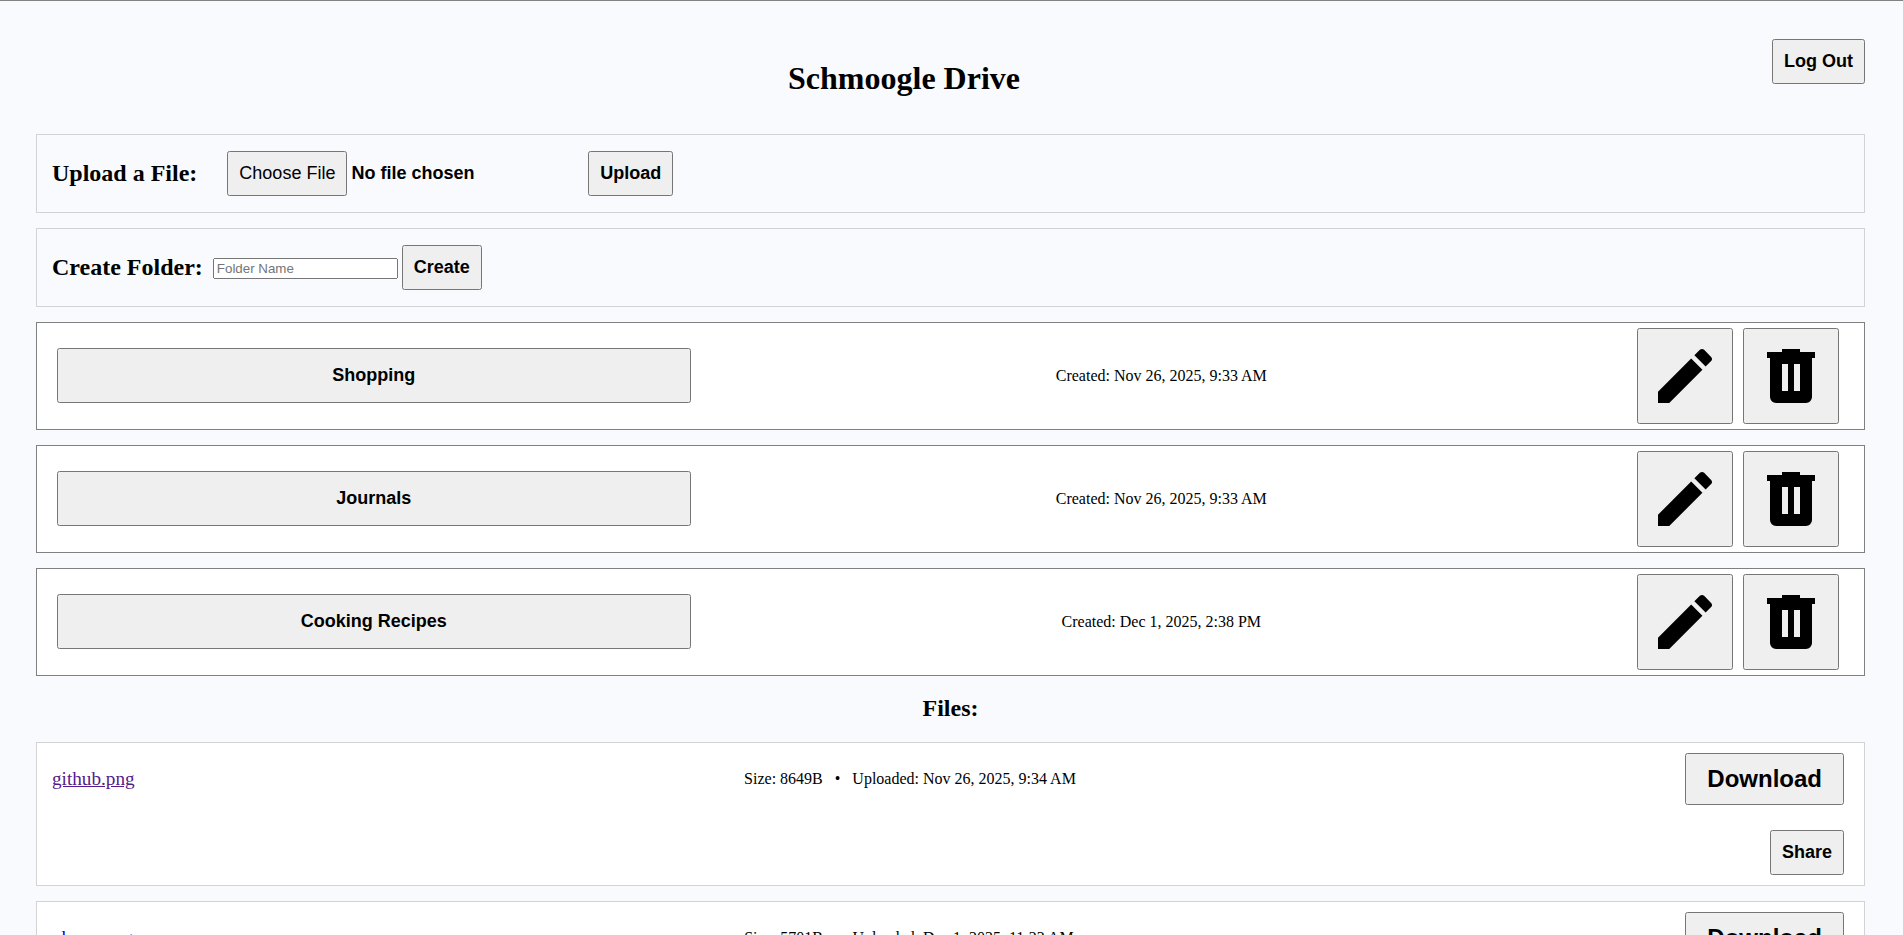
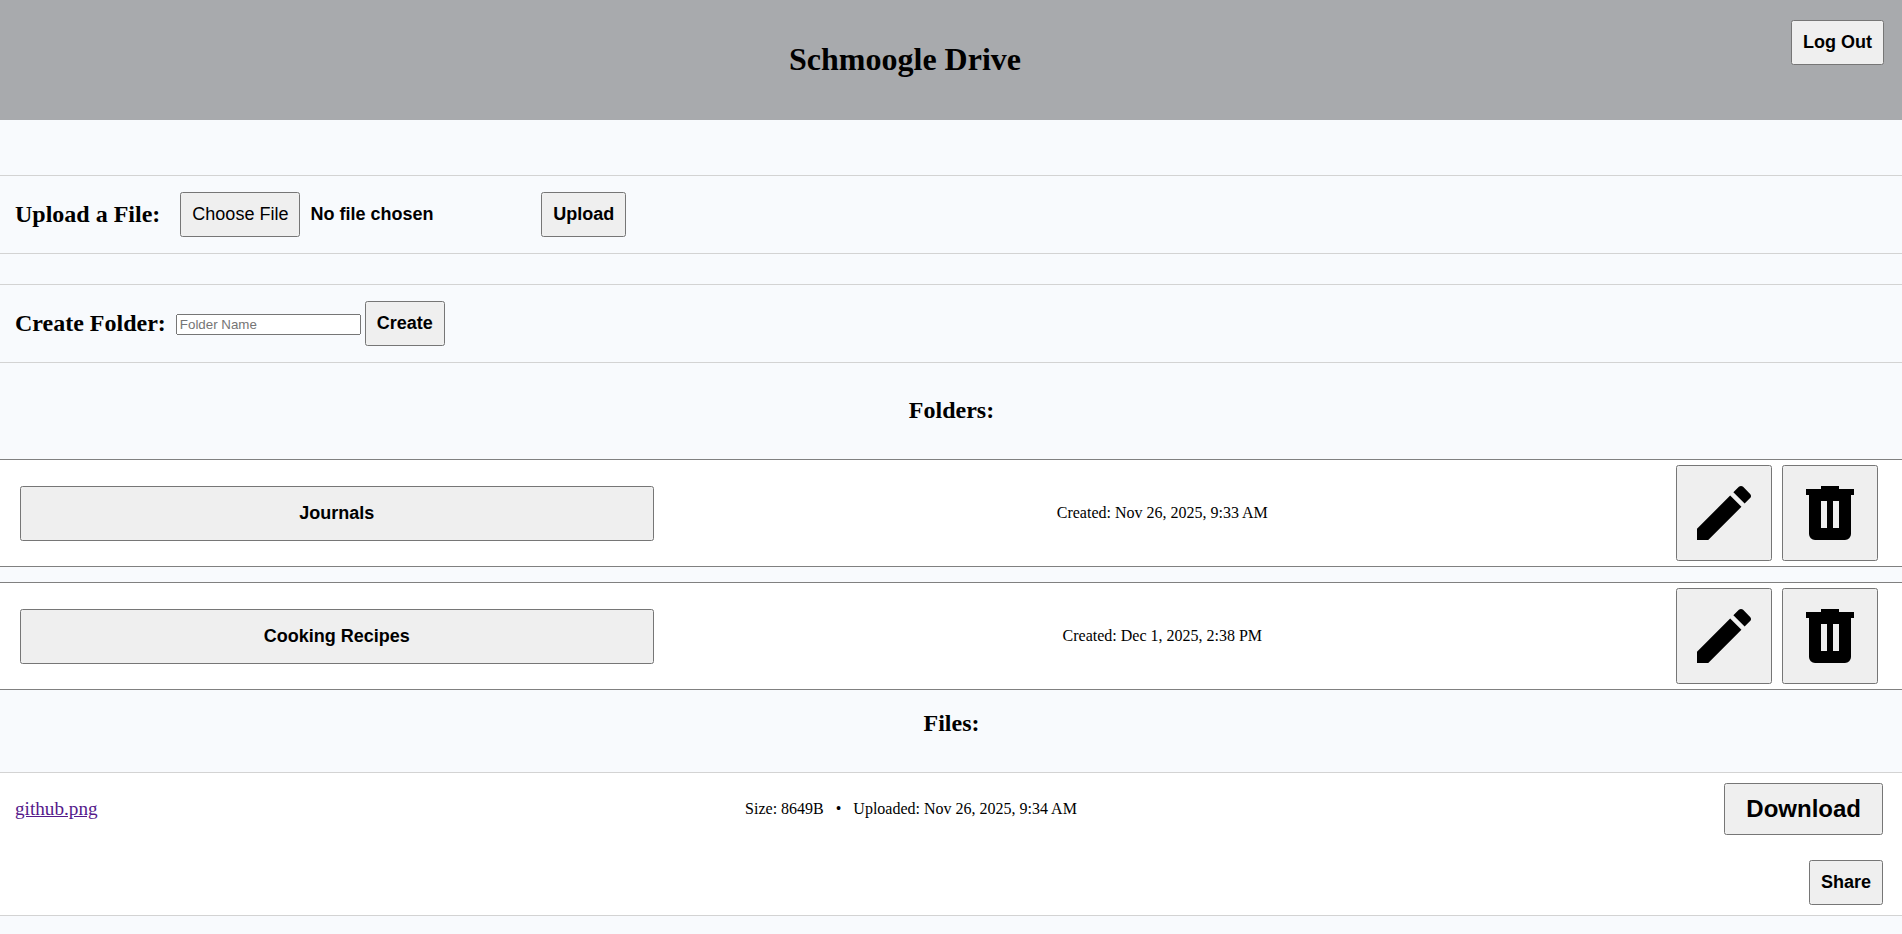
minor UI fixes

diff --git a/public/stylesheets/style.css b/public/stylesheets/style.css
@@ -1,9 +1,16 @@
+html {
+  min-height: 100%;
+}
+
 body {
+  display: flex;
+  flex-direction: column;
   font: 16px "Times New Roman", Times, serif;
   background-color: rgb(248, 250, 253);
   text-align: center;
   margin: 0;
-  padding: 35px;
+  min-height: 90vh;
+  height: auto;
 }
 
 button,
@@ -16,6 +23,16 @@ input[type="file"] {
 }
 
 /* Index Page */
+#topBar,
+#loggedInButtons {
+  margin-bottom: 40px;
+  padding: 20px;
+  background-color: rgb(168, 170, 173);
+}
+
+#loggedInButtons {
+}
+
 #formsContainer {
   display: flex;
   justify-content: space-around;
@@ -24,21 +41,6 @@ input[type="file"] {
 .errors {
   border: 2px dashed red;
   margin: 5px 25vw;
-}
-
-/* Mobile Screens */
-@media (max-width: 1000px) {
-  #formsContainer {
-    flex-direction: column;
-    gap: 30px;
-    align-items: center;
-  }
-}
-
-#loggedInButtons {
-  margin: -35px -35px 20px -35px;
-  padding: 20px;
-  background-color: rgb(168, 170, 173);
 }
 
 #signupContainer,
@@ -57,6 +59,15 @@ input[type="file"] {
   gap: 5px;
   background-color: white;
   justify-content: center;
+}
+
+/* Mobile Screens */
+@media (max-width: 1000px) {
+  #formsContainer {
+    flex-direction: column;
+    gap: 30px;
+    align-items: center;
+  }
 }
 
 /* Uploader Page */
@@ -175,6 +186,7 @@ input[type="file"] {
   display: inline-flex;
   align-items: center;
   justify-content: center;
+  height: 40px;
 }
 
 .backLink:active {
@@ -234,7 +246,9 @@ input[type="file"] {
 }
 
 #fileBody .backLink {
-  align-self: flex-start;
+  position: fixed;
+  top: 5vh;
+  left: 5vw;
 }
 
 li {
@@ -260,5 +274,5 @@ li {
 /* Footer */
 footer {
   text-align: center;
-  margin-top: 15px;
+  margin-top: auto;
 }

diff --git a/src/controllers/uploaderController.js b/src/controllers/uploaderController.js
@@ -21,7 +21,7 @@ async function getUploaderPage(req, res) {
 
     if (!root) {
       root = await prisma.folder.create({
-        data: { name: "Root", parentId: null, ownerId: req.user.id },
+        data: { name: "Schmoogle Drive", parentId: null, ownerId: req.user.id },
       });
     }
 
@@ -294,7 +294,7 @@ async function viewFile(req, res) {
 
     // Render specific details
     return res.render("file", {
-      title: details.fileName,
+      title: details.originalName,
       file: details,
       folder: file.Folder,
       errors,

diff --git a/src/app.js b/src/app.js
@@ -101,7 +101,6 @@ app.post("/login", (req, res, next) => {
   passport.authenticate("local", (err, user, info) => {
     if (err) return next(err);
     if (!user) {
-      // Put a single error object into the session and redirect
       req.session.errors = [{ msg: info?.message || "Login failed" }];
       return req.session.save(() => res.redirect("/"));
     }

diff --git a/README.md b/README.md
@@ -1,8 +1,8 @@
 # TOP-File-Uploader
 
-A stripped down version of Google Drive. Users can CRUD (create, read, update, delete) folders and upload files in them. Files can then be shared with others via a link that expires after 1 day.
+A stripped down version of Google Drive. Users can CRUD (create, read, update, delete) folders, then upload files in them. Files can be downloaded or shared with others via a link that expires after 1 day.
 
-The files are securely uploaded to Supabase Storage via signed URLs. The users are temporarily stored via session management. Application site and database is deployed using Railway.
+The files are securely uploaded to Supabase Storage via signed URLs. Users are tracked with session-based authentication. Application site and database is deployed using Railway.
 
 Site Link: https://top-file-uploader-production-b6c8.up.railway.app/
 
